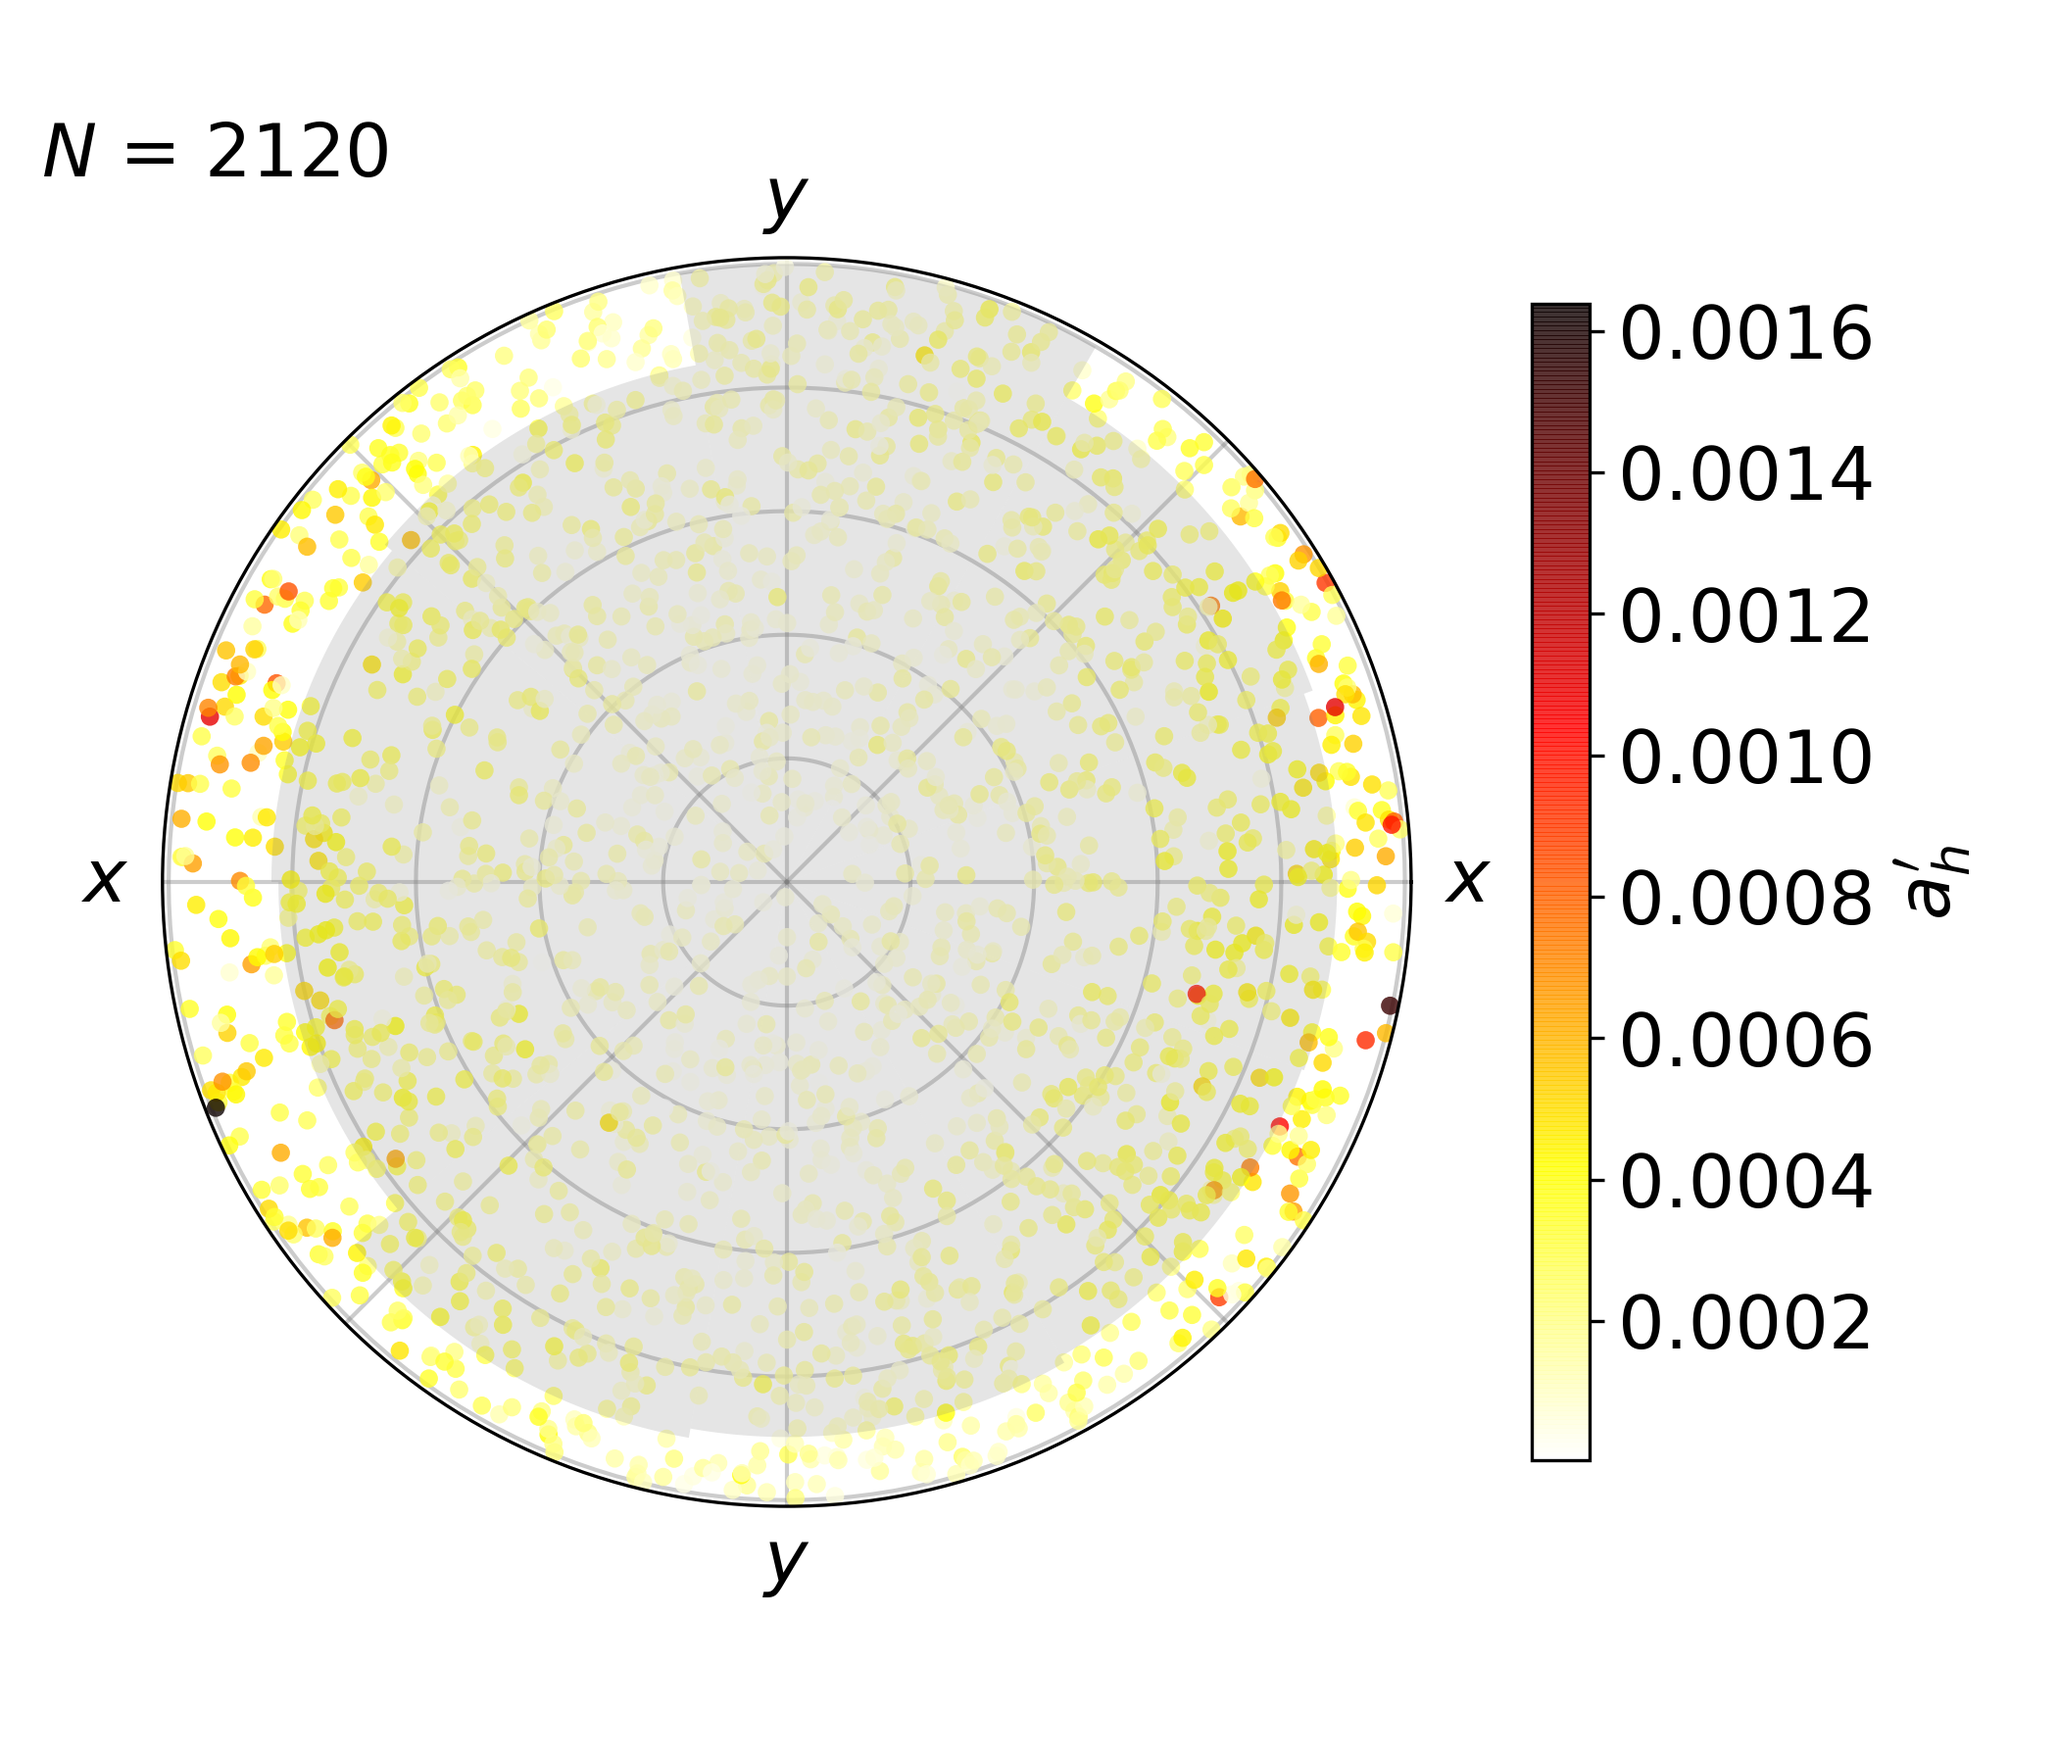
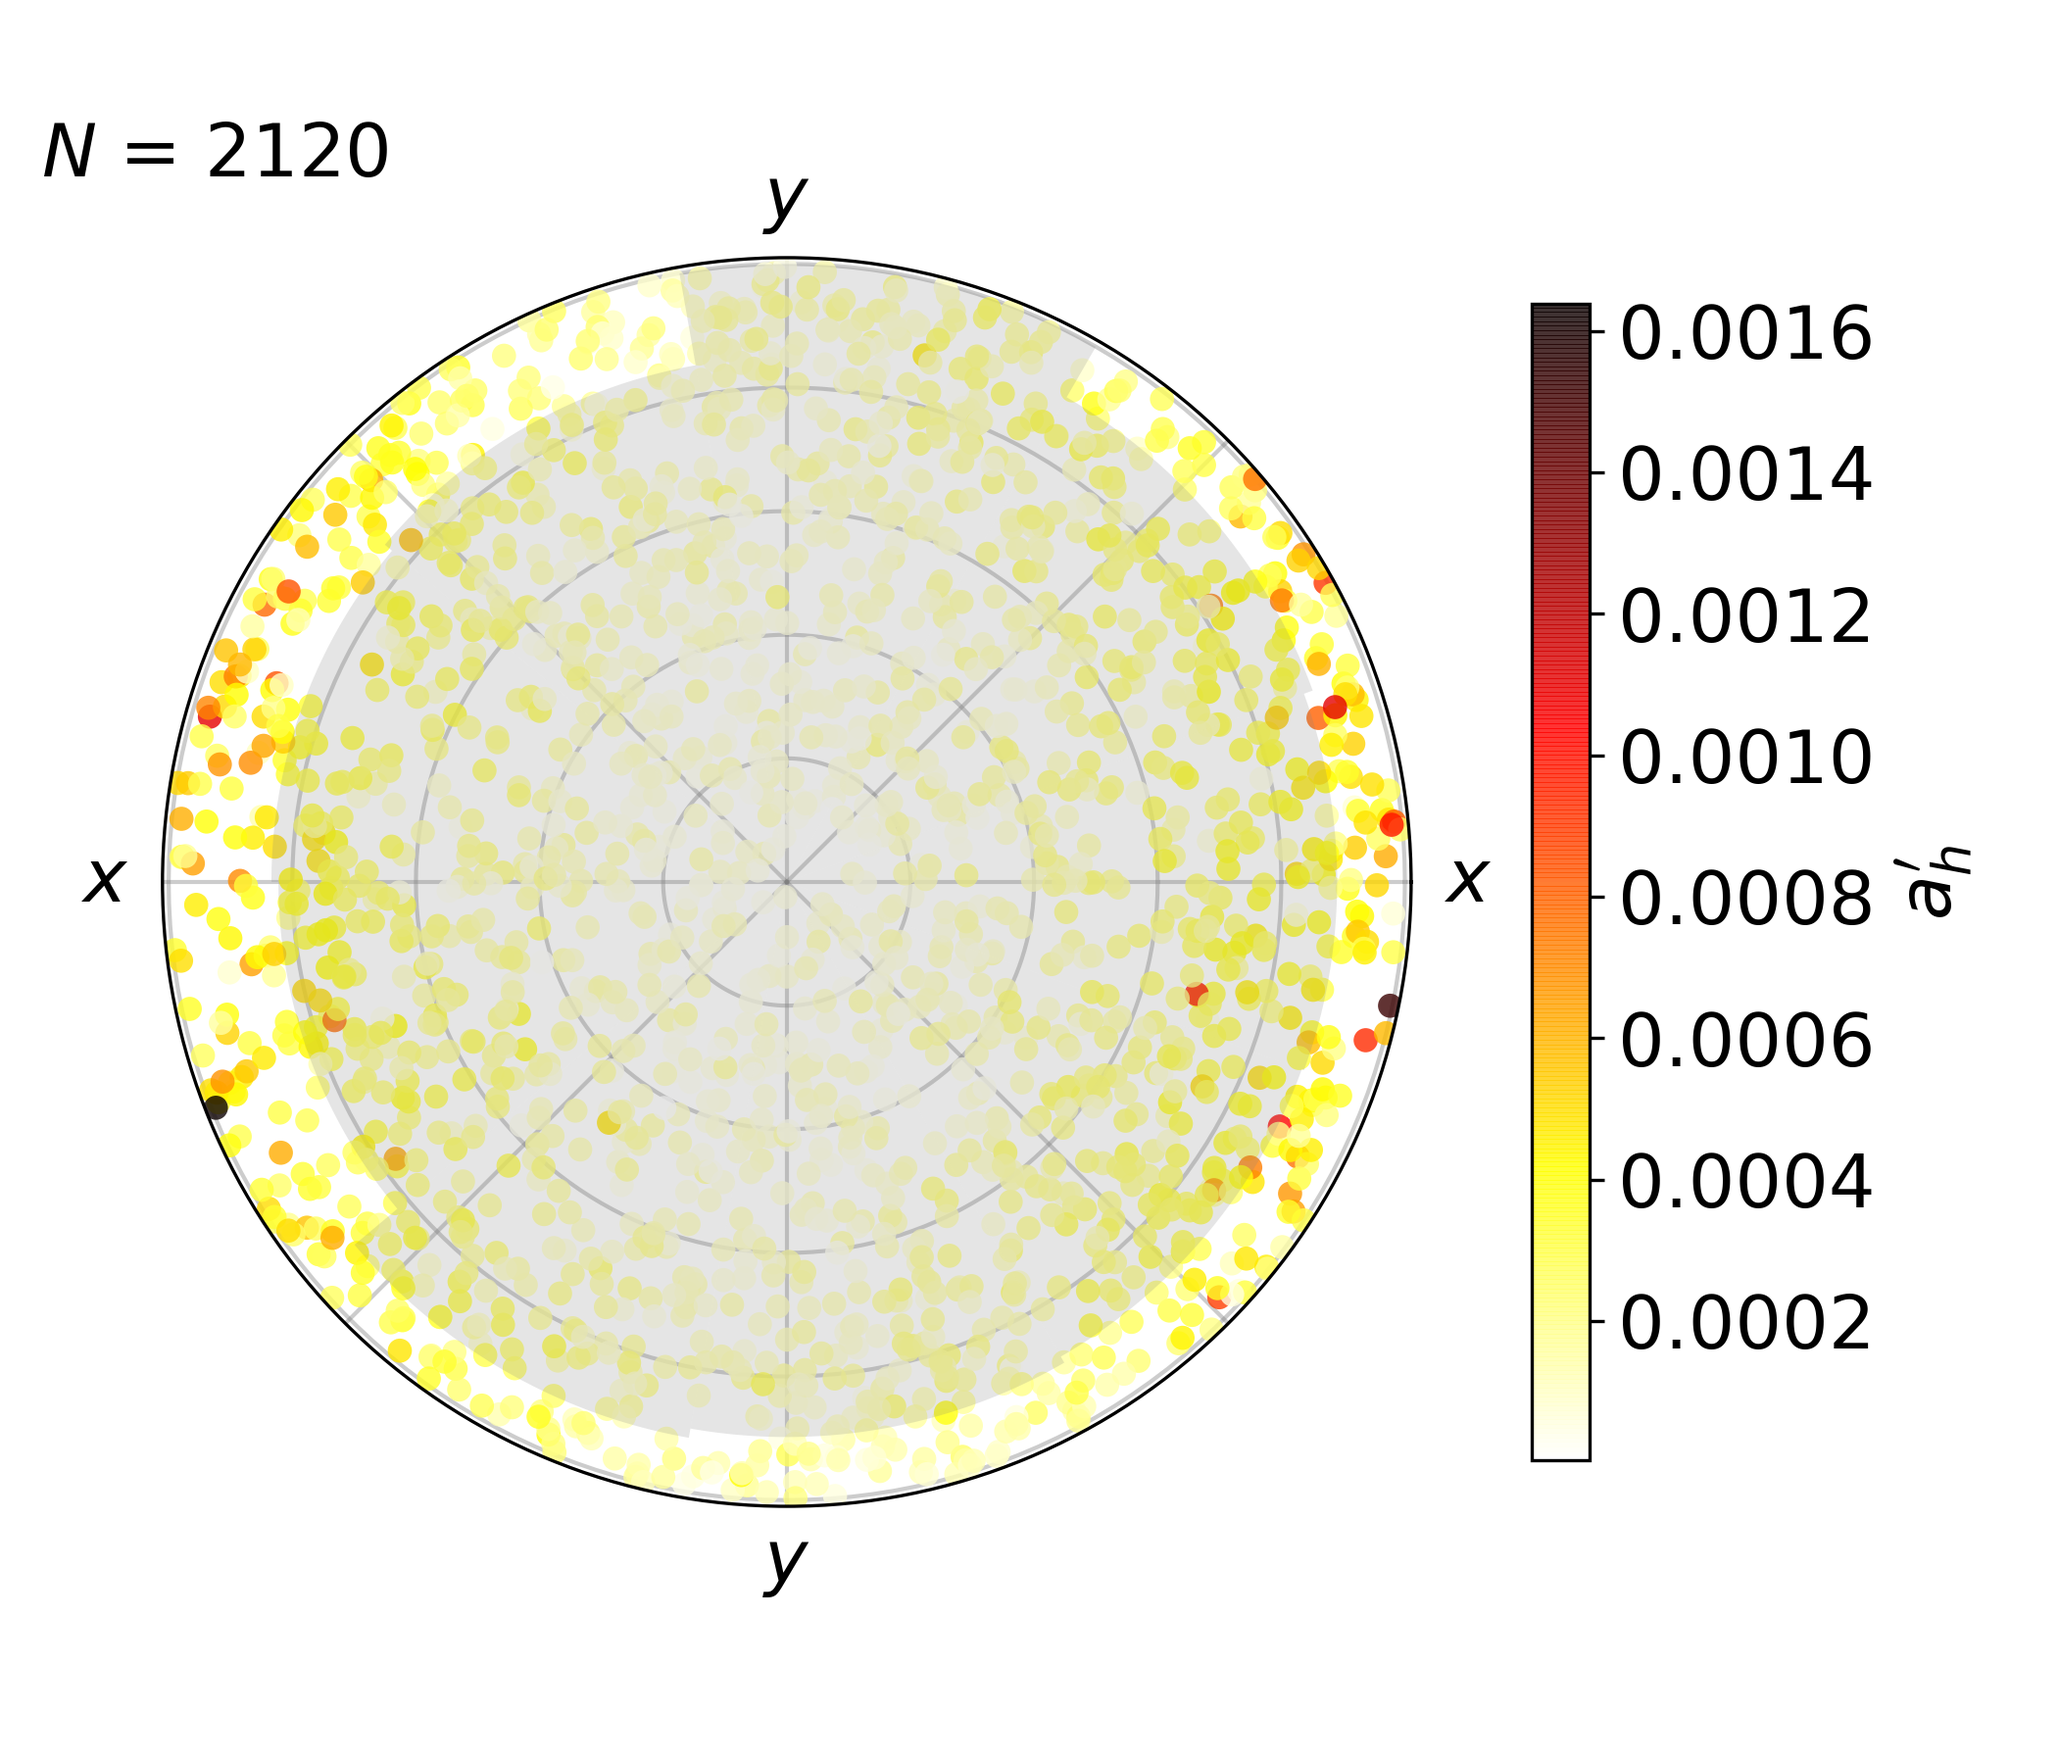
contact ratio code and data

Changed region(s): [[0.0619, 0.1556, 0.681, 0.8711], [0.3714, 0.5289, 0.4024, 0.56], [0.3405, 0.4667, 0.3714, 0.4978]]

diff --git a/figtools/hemisphere.py b/figtools/hemisphere.py
@@ -4,7 +4,6 @@ import numpy as np
 import matplotlib as mpl
 import matplotlib.pyplot as plt
 import matplotlib.patches as pltpatches
-import json
 from matplotlib import rcParams
 
 
@@ -13,7 +12,6 @@ def plot(
     radii,
     cprop=[],
     label="",
-    as_text=False,
     cbformat=None,
     save_as=None,
     tformat="{:d}",
@@ -27,44 +25,40 @@ def plot(
     Statistical geological discrete fracture network model, A Fox et al., 2007"""
     fig = plt.figure(figsize=(7, 6))
     ax = plt.subplot(111, projection="polar")
-    if not as_text:
-        if len(cprop) > 0:
-            cda = ax.scatter(
-                theta,
-                radii,
-                s=80,
-                c=cprop,
-                marker=".",
-                edgecolors="none",
-                cmap=plt.get_cmap("hot_r"),
-                zorder=2,
-                alpha=alpha,
-            )
-            if label:
-                cbr = fig.colorbar(cda, pad=0.075, shrink=0.75, format=cbformat)
-                cbr.set_label(label)
-        if nbars:
-            width_bars = 2.0 * np.pi / nbars
-            theta_bars = np.arange(0.0, 2*np.pi, 2*np.pi/nbars)
-            radii_bars = []
-            for i in range(nbars):
-                theta_start = width_bars * i
-                theta_end = width_bars * (i + 1)
-                where = np.where((theta > theta_start) & (theta <= theta_end))
-                count = len(where[0])
-                radii_bars.append(count)
-            radii_bars = np.array(radii_bars)
-            print(np.sum(radii_bars))
-            radii_bars = radii_bars / radii_bars.max()
-            radii_bars = radii_bars * radii.max()
-            ax.bar(theta_bars, radii_bars, width=width_bars, bottom=0.0, color='grey', alpha=0.2, zorder=2)
-        if len(cprop) == 0 or as_marker:
-            ax.scatter(theta, radii, s=60, c="k", marker="x", alpha=0.5, zorder=1)
-    else:
-        [
-            ax.text(theta[i], radii[i], tformat.format(cprop[i]), fontsize=8)
-            for i in range(len(theta))
-        ]
+
+    if len(cprop) > 0:
+        cda = ax.scatter(
+            theta,
+            radii,
+            s=140,
+            c=cprop,
+            marker=".",
+            edgecolors="none",
+            cmap=plt.get_cmap("hot_r"),
+            zorder=3,
+            alpha=alpha,
+        )
+        if label:
+            cbr = fig.colorbar(cda, pad=0.075, shrink=0.75, format=cbformat)
+            cbr.set_label(label)
+    if nbars:
+        width_bars = 2.0 * np.pi / nbars
+        theta_bars = np.arange(0.0, 2*np.pi, 2*np.pi/nbars)
+        radii_bars = []
+        for i in range(nbars):
+            theta_start = width_bars * i
+            theta_end = width_bars * (i + 1)
+            where = np.where((theta > theta_start) & (theta <= theta_end))
+            count = len(where[0])
+            radii_bars.append(count)
+        radii_bars = np.array(radii_bars)
+        print(np.sum(radii_bars))
+        radii_bars = radii_bars / radii_bars.max()
+        radii_bars = radii_bars * radii.max()
+        ax.bar(theta_bars, radii_bars, width=width_bars, bottom=0.0, color='grey', alpha=0.2, zorder=2)
+    if len(cprop) == 0 or as_marker:
+        ax.scatter(theta, radii, s=60, c="k", marker="x", alpha=0.5, zorder=1)
+
     ax.grid(color="gray", linewidth=1, linestyle="-", alpha=0.4)
     ax.set_xticklabels(
         ["$\mathit{x}$", "", "$\mathit{y}$", "", "$\mathit{x}$", "", "$\mathit{y}$"]

diff --git a/generate.py b/generate.py
@@ -6,6 +6,8 @@ import sys
 import collections
 
 import numpy as np
+import matplotlib as mpl
+import matplotlib.pyplot as plt
 
 import figtools
 
@@ -51,7 +53,13 @@ def parse_hmruns_data(data):
     )
 
 
+def parse_contactarea_data(data):
+    areas = data["areas"]
+    return [np.array(a) for a in areas]
+
+
 if __name__ == "__main__":
+    
     with open(os.path.join(".", "data", "hmruns.json")) as f:
         data = parse_hmruns_data(json.load(f))
 
@@ -60,7 +68,7 @@ if __name__ == "__main__":
     kmin_n = data.kmin / data.kmatrix
     ah_prime = np.array(data.cprops['ah'])/(2*np.array(data.cprops['radius']))
 
-    if 1:
+    if 0:
         figtools.hemisphere.plot(
             data.theta_kmax,
             data.radii_kmax,
@@ -82,3 +90,20 @@ if __name__ == "__main__":
             alpha=0.8
         )
 
+
+    with open(os.path.join(".", "data", "contactareas.json")) as f:
+        allareas = parse_contactarea_data(json.load(f))
+    
+    lsim = len(allareas) - 1
+    colors, alphas = ['blue'] + ['red'] * lsim, [1.0] + [0.3] * lsim
+    def hook(ax):
+        blue_line = mpl.lines.Line2D([], [], color='blue', label='Nemoto et al., 2009')
+        red_line = mpl.lines.Line2D([], [], color='red', alpha=0.3, label='Numerical')
+        plt.legend(handles=[blue_line,red_line])
+        i, k = 90, -5.6E-6
+        def line(x):
+            return i + k * x
+        slopeAx =  np.array([1.6E5, 1.5E7])
+        slopeAy = line(slopeAx)
+        #ax.plot(slopeAx, slopeAy, linestyle='--', lw=3, color="black")
+    figtools.contactdistribution.plot(allareas, figsize=(8,4), colors=colors, alphas=alphas, hook=hook)

diff --git a/figtools/contactdistribution.py b/figtools/contactdistribution.py
@@ -1,0 +1,44 @@
+import os
+import sys
+import numpy as np
+import matplotlib as mpl
+import matplotlib.pyplot as plt
+import matplotlib.patches as pltpatches
+from matplotlib import rcParams
+
+
+def plot(allareas, show=True, save_as = '', bins=4, label='', figsize=None, colors=None, alphas=None, hook=None):
+    """
+    Log-log plot of cluster siye vs count.
+    """
+    fig, ax = plt.subplots(figsize=figsize)
+    legend = len(label)    
+    for i, areas in enumerate(allareas):
+        b = np.logspace(np.log10(areas.min()), np.log10(areas.max()),num=bins+1)
+        hist, bin_edges = np.histogram(areas, bins=b)
+        bin_centers = bin_edges[:-1]+np.diff(bin_edges)/2.
+        color, alpha = None, 1.0
+        if colors is not None:
+            color = colors[i]
+        if alphas is not None:
+            alpha = alphas[i]
+        lab = ''
+        try:
+            lab = L[i]
+        except:
+            pass
+        ax.loglog(bin_centers, hist, label=lab, color=color, alpha=alpha)
+    
+    ax.set_xlabel('Area of contacts ($\mu$m$^2$)')
+    ax.set_ylabel('Frequency')
+    if legend:
+        ax.legend()
+    if hook is not None:
+        hook(ax)
+    plt.tight_layout()
+    if len(save_as) != 0:
+        fname = splt.file_name(save_as)
+        plt.savefig(fname)
+    if show:
+        plt.show()
+    plt.close()

diff --git a/README.md b/README.md
@@ -6,6 +6,9 @@ Requires Python 3. Optionally setup a virtual environment
 ```
 python3 -m venv venv
 source venv/bin/activate
+# or with conda
+conda create -n phdfigures python=3.6
+activate phdfigures
 ```
 to run
 ```
